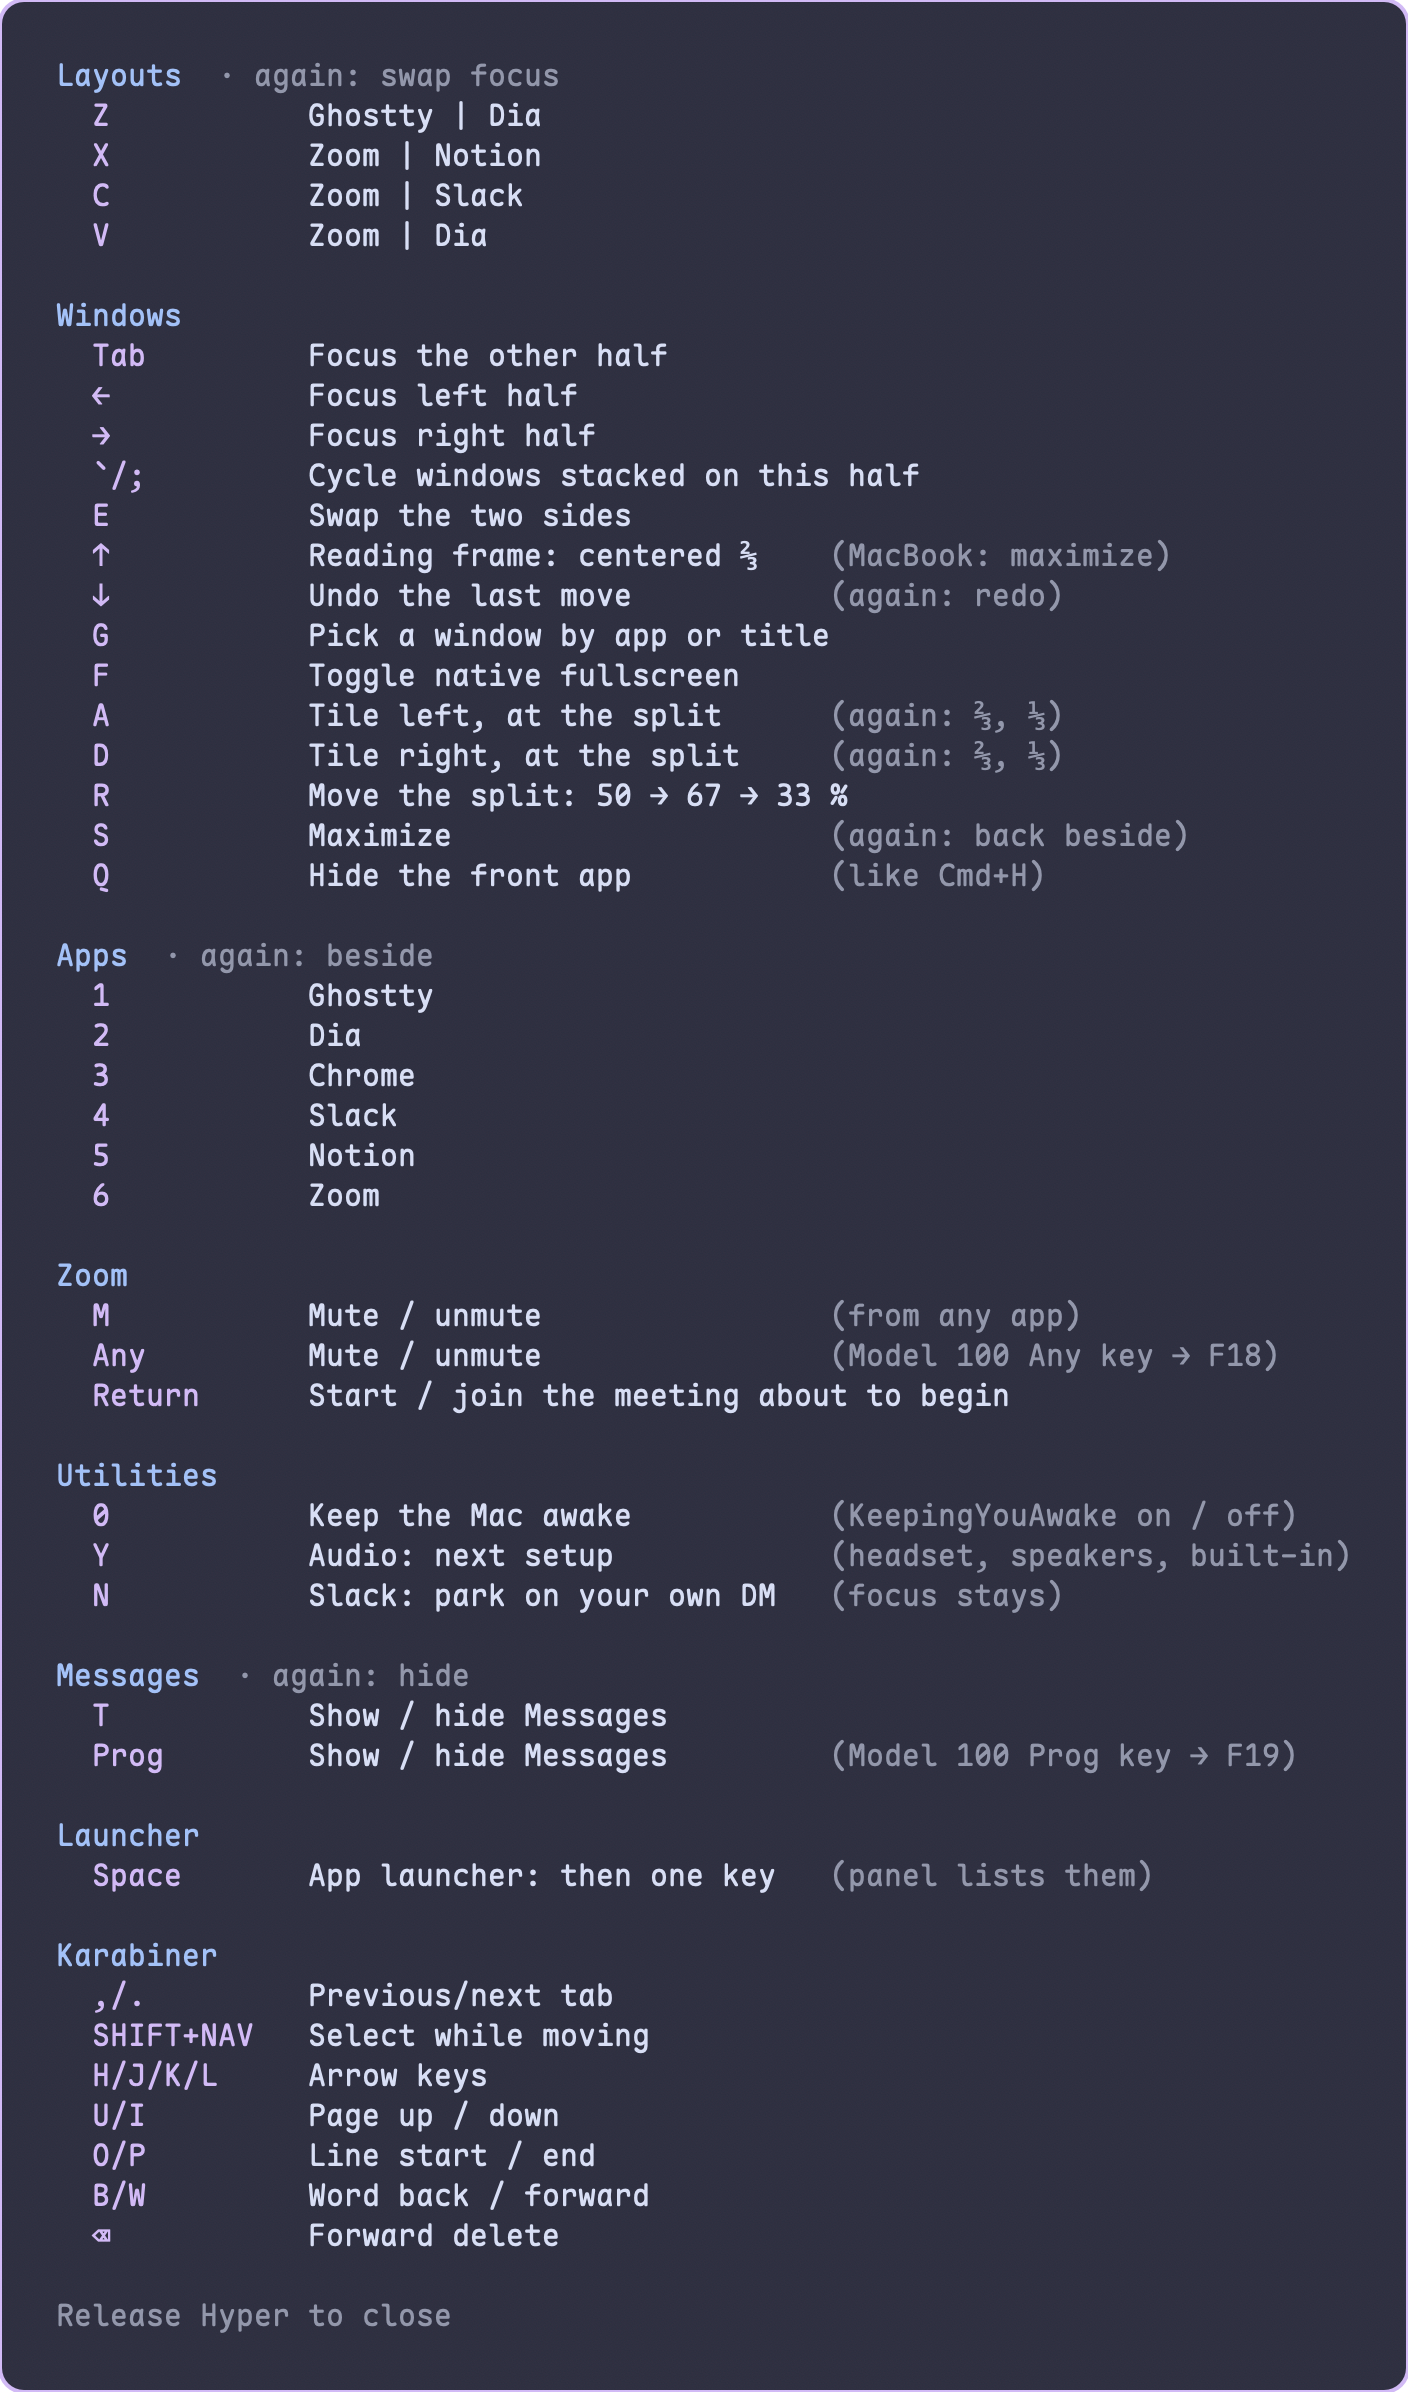
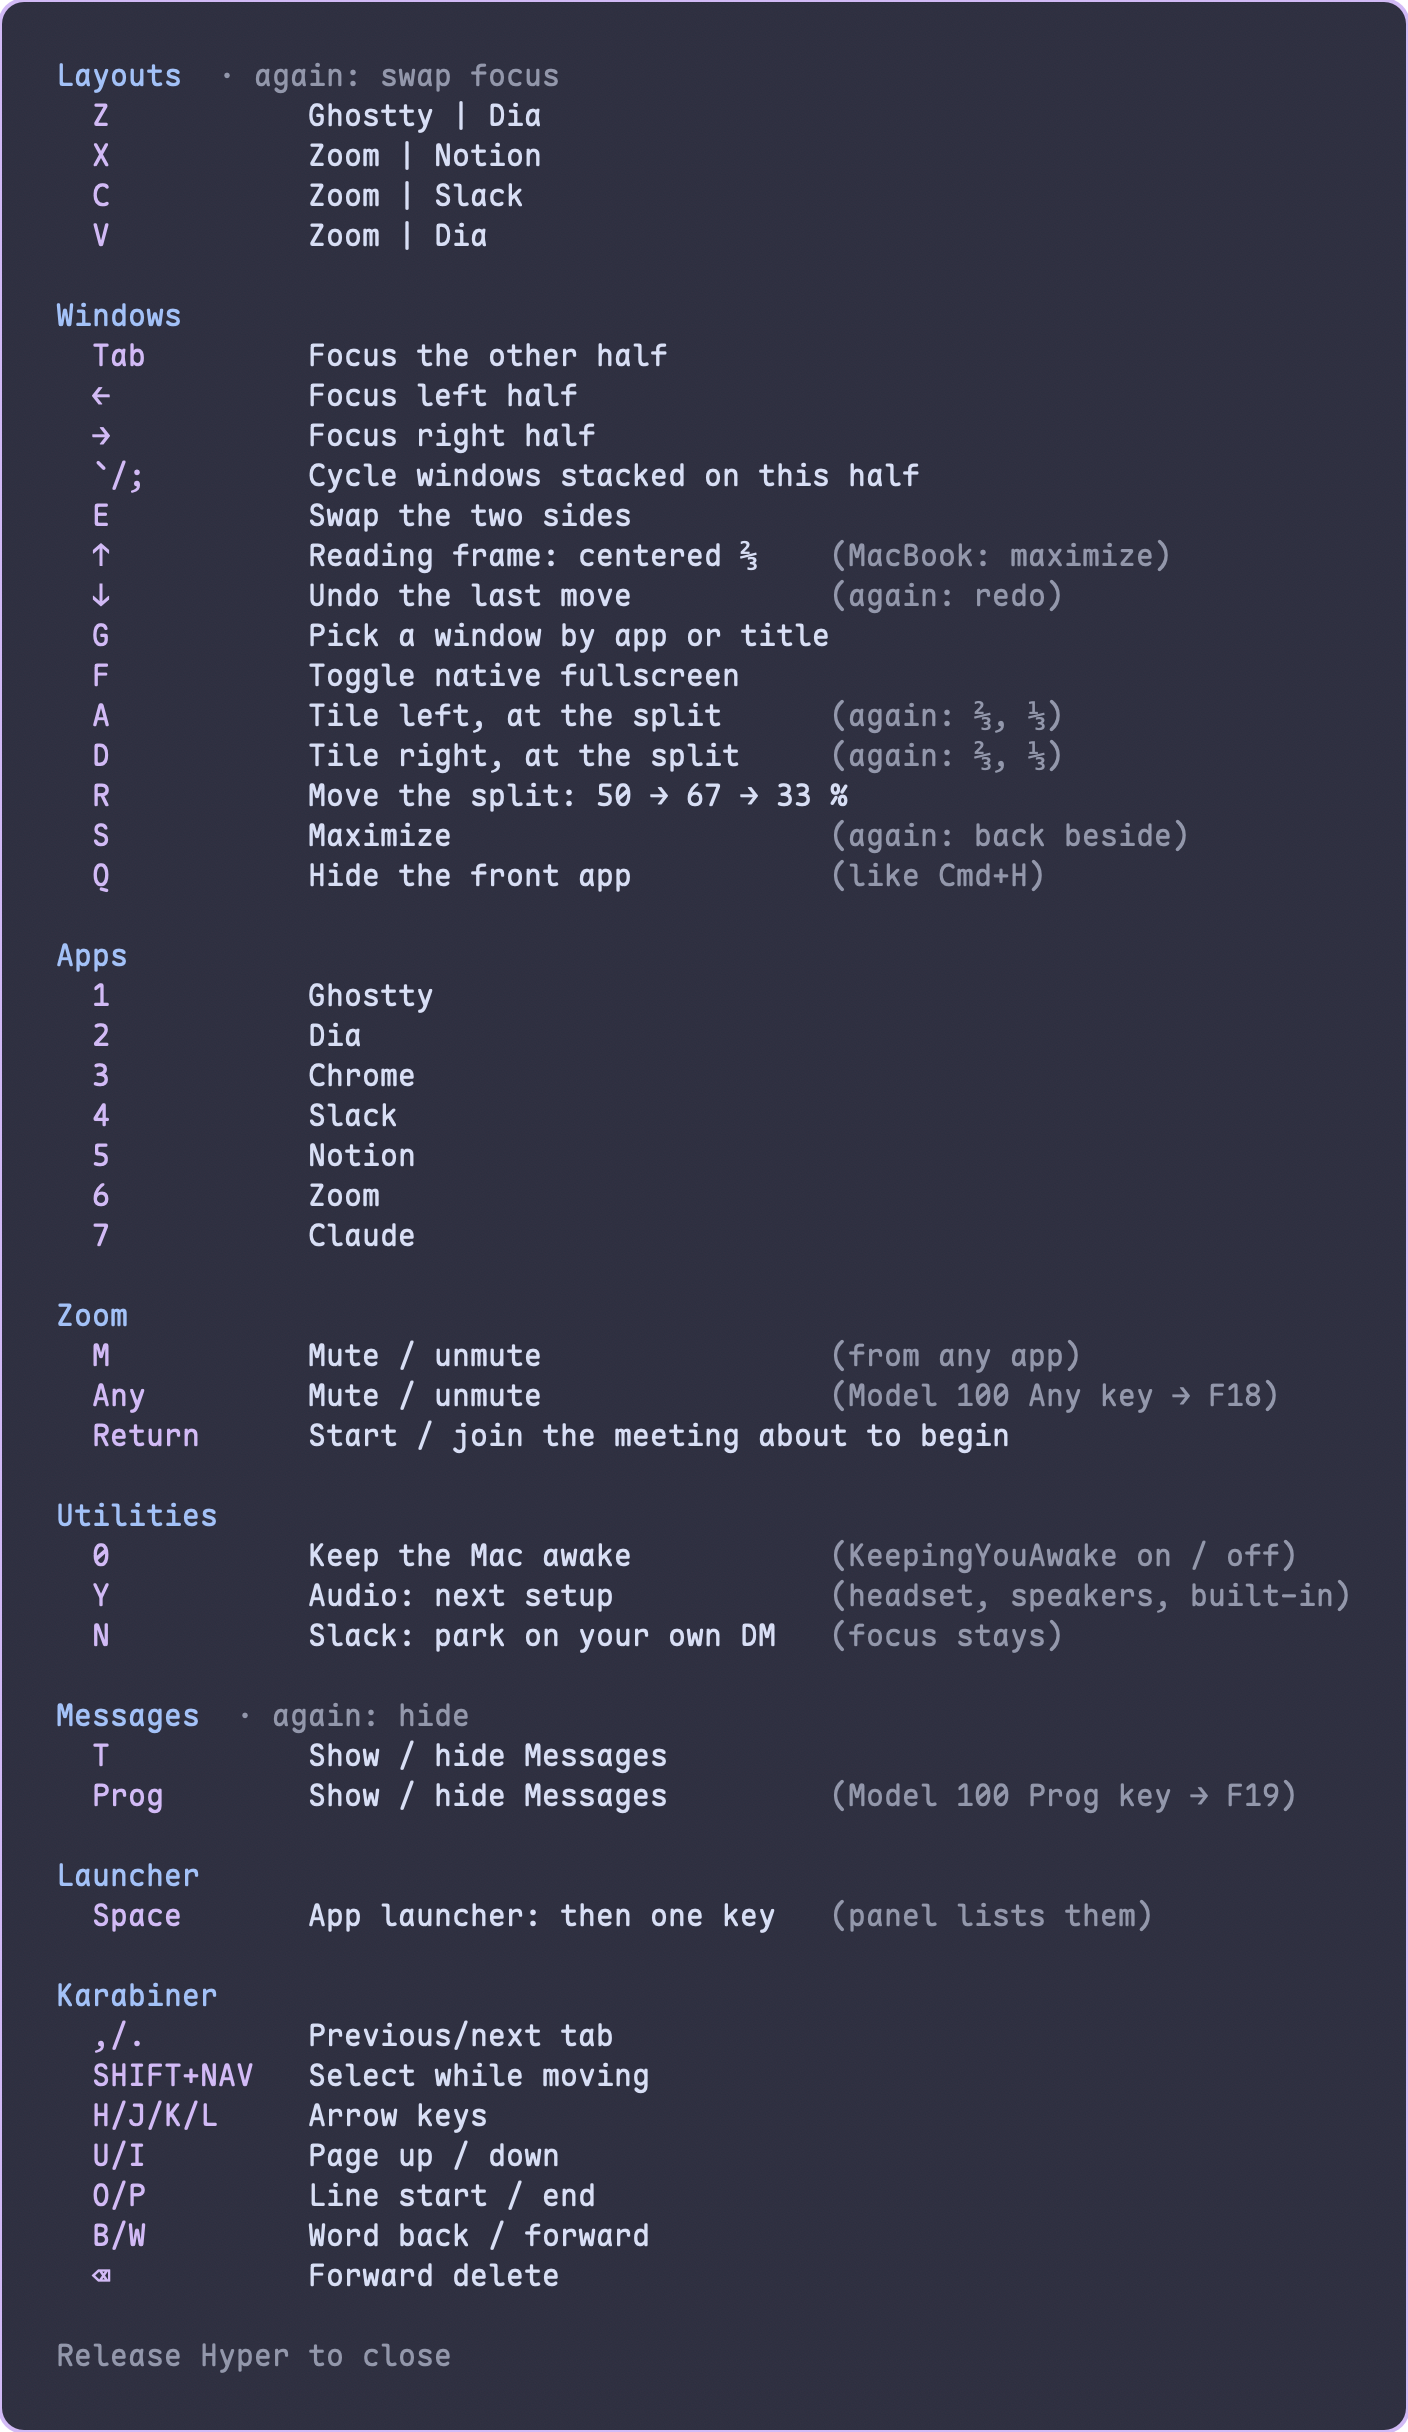
Hammerspoon: Hyper+7 focuses Claude Desktop
Claude is used all day and was two keys away (Hyper+Space C). It joins
Hyper+1–6 and moves up the launcher panel with the other Hyper apps.
On the Model 100's Hyper layer it is peach, the nearest to Claude's
orange. Cheatsheet images regenerated (also dropping the stale
"again: beside" note).

Claude-Session: https://claude.ai/code/session_01YD9iqYjRtat9BufPmWzGhB

diff --git a/GUIDE.md b/GUIDE.md
@@ -807,7 +807,7 @@ Key repeat needs a logout; Finder picks up the extension setting on restart
 (`killall Finder`). The Dock settings apply when `install.sh` restarts the Dock.
 
 Spaces aren't used on purpose: Hammerspoon layouts (Hyper+Z/X/C/V) and app
-focus (Hyper+1–6) already switch context in one key, and Hammerspoon's window
+focus (Hyper+1–7) already switch context in one key, and Hammerspoon's window
 queries only see the current Space, so layouts can't pull windows from another
 one. Native fullscreen (Hyper+F) is the only thing that creates a Space.
 
@@ -1310,7 +1310,7 @@ brightness 200/255):
   | U I — page up / down | lavender |
   | Backspace — forward delete | pink |
   | `,` `.` — previous / next tab | white |
-  | 1–6 — apps, each in its own color | Ghostty mauve (its Catppuccin accent), Dia yellow, Chrome green, Slack pink, Notion white, Zoom blue |
+  | 1–7 — apps, each in its own color | Ghostty mauve (its Catppuccin accent), Dia yellow, Chrome green, Slack pink, Notion white, Zoom blue, Claude orange |
   | Z X C V — layouts · ` ; Tab Q A S D E F G, left thumb arrows — windows | mauve · blue |
   | T Messages · M Return — Zoom mute, join | teal · red |
   | 0 — keep awake | yellow |
@@ -1659,7 +1659,7 @@ Every move is instant — Hammerspoon's default 0.2 s slide is off
 
 Hyper+Q sends an app to the background; `Cmd+Q` on the same key quits it for
 real (`Cmd+W` only closes the window — WhatsApp, Slack and Zoom keep running).
-A stray Hyper+Q is harmless: Hyper+1–6 or the launcher brings the app back.
+A stray Hyper+Q is harmless: Hyper+1–7 or the launcher brings the app back.
 
 Hyper+` is Cmd+` per spot instead of per app: it cycles the windows that sit
 exactly where the focused one is — Slack and Notion both tiled right, two
@@ -1738,6 +1738,7 @@ Hammerspoon.
 | Hyper + 4 | Slack |
 | Hyper + 5 | Notion |
 | Hyper + 6 | Zoom |
+| Hyper + 7 | Claude |
 
 A press brings up the app's main window (launching the app if it has no
 window). Pressing it again while the app is in front does nothing — it used
@@ -1751,19 +1752,20 @@ For Zoom that's the **call** window during a meeting, never the meetings list
 ### Launcher (Hammerspoon)
 
 `Hyper+Space` opens a panel of one-key shortcuts; press the key (no modifiers)
-and the app comes forward the same way as Hyper+1–6, launching it if needed.
+and the app comes forward the same way as Hyper+1–7, launching it if needed.
 For apps used often enough to want a key, not often enough to earn a Hyper
 number — everything else stays with Spotlight.
 
 | Key | App | Key | App |
 |---|---|---|---|
 | G | Ghostty (also Hyper+1) | 1 | 1Password |
-| D | Dia (Hyper+2) | C | Claude |
-| H | Chrome (Hyper+3) | F | Finder |
-| S | Slack (Hyper+4) | M | Music |
-| N | Notion (Hyper+5) | V | VS Code |
-| Z | Zoom (Hyper+6) | W | WhatsApp |
-| T | Messages (Hyper+T) | , | System Settings |
+| D | Dia (Hyper+2) | F | Finder |
+| H | Chrome (Hyper+3) | M | Music |
+| S | Slack (Hyper+4) | V | VS Code |
+| N | Notion (Hyper+5) | W | WhatsApp |
+| Z | Zoom (Hyper+6) | , | System Settings |
+| C | Claude (Hyper+7) | | |
+| T | Messages (Hyper+T) | | |
 
 The panel lists them in this order: Hyper apps first, the rest
 alphabetically, System Settings last.

diff --git a/README.md b/README.md
@@ -14,7 +14,7 @@ same on a MacBook and a Keyboardio Model 100. Catppuccin Mocha everywhere.
   are bound to physical keys, so they stay put when switching to the Czech
   (QWERTZ) layout.
 - **Windows and apps on one hand.** Hyper+Z/X/C/V tile a pair of apps side by
-  side (press again to swap focus), Hyper+1–6 jump to an app,
+  side (press again to swap focus), Hyper+1–7 jump to an app,
   Hyper+Space then one letter
   reaches the rest (W WhatsApp, C Claude…; Shift+letter for "beside"),
   Hyper+A/S/D tile or maximize, and Hyper+R moves the split — one per
